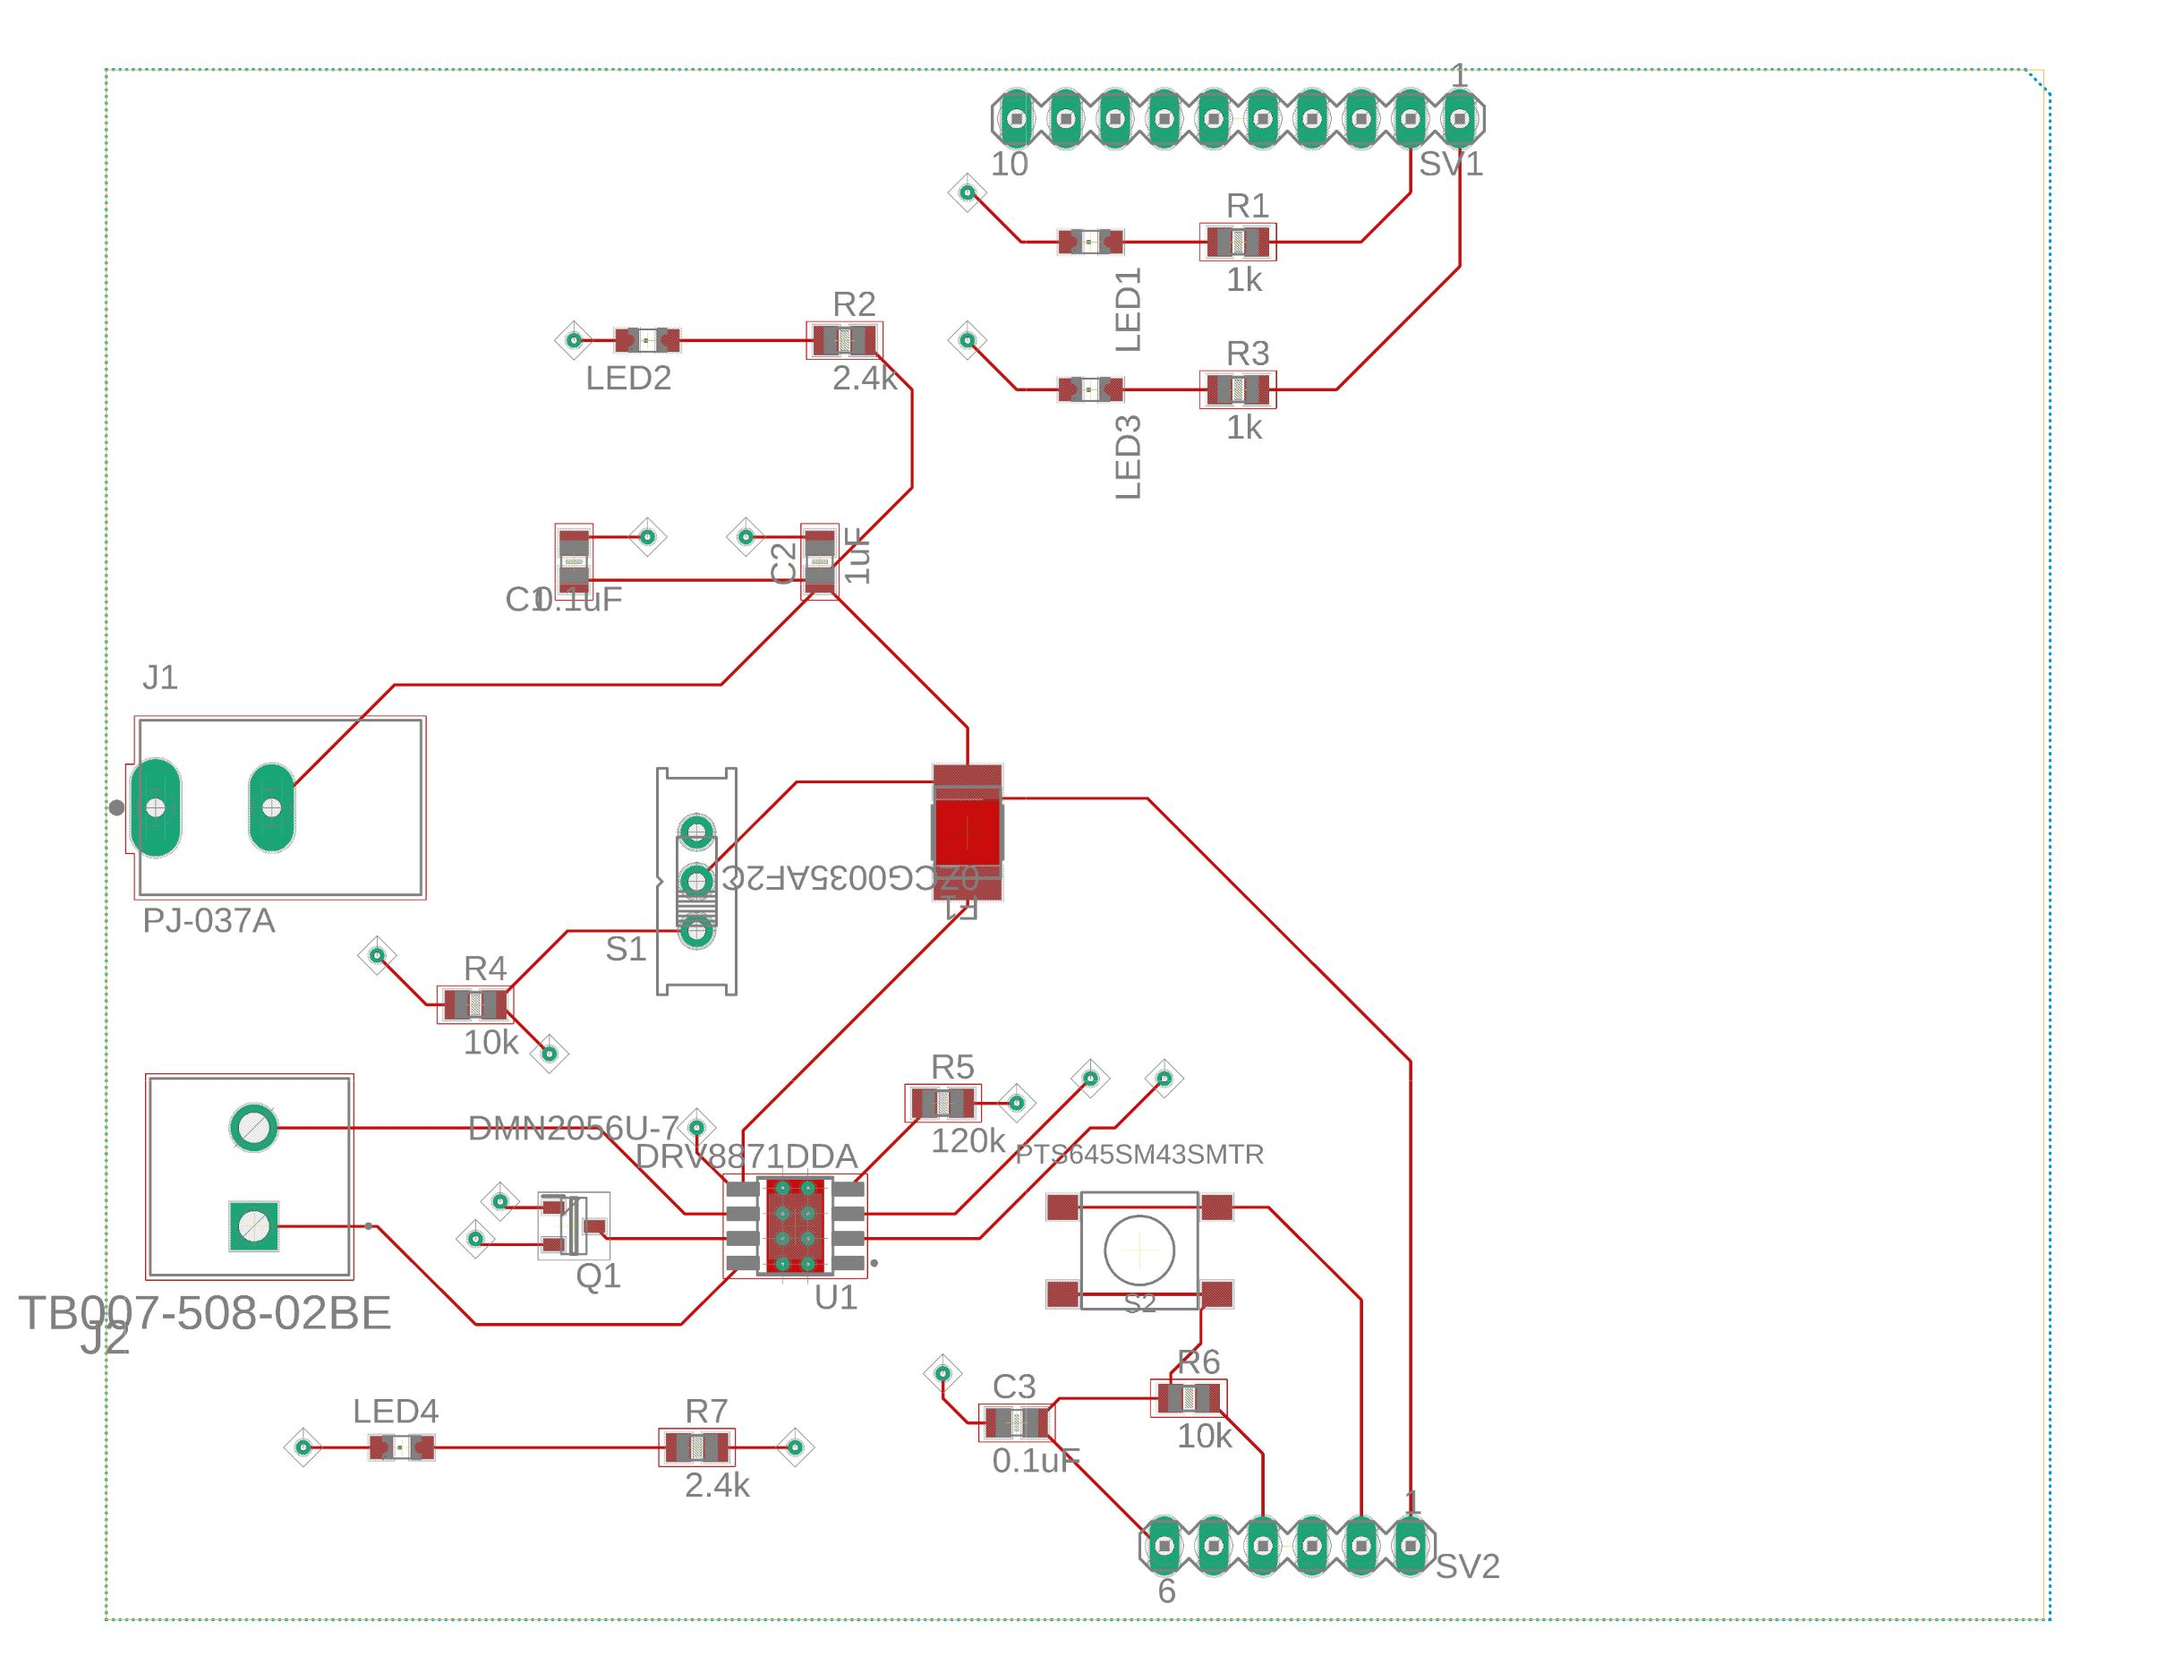
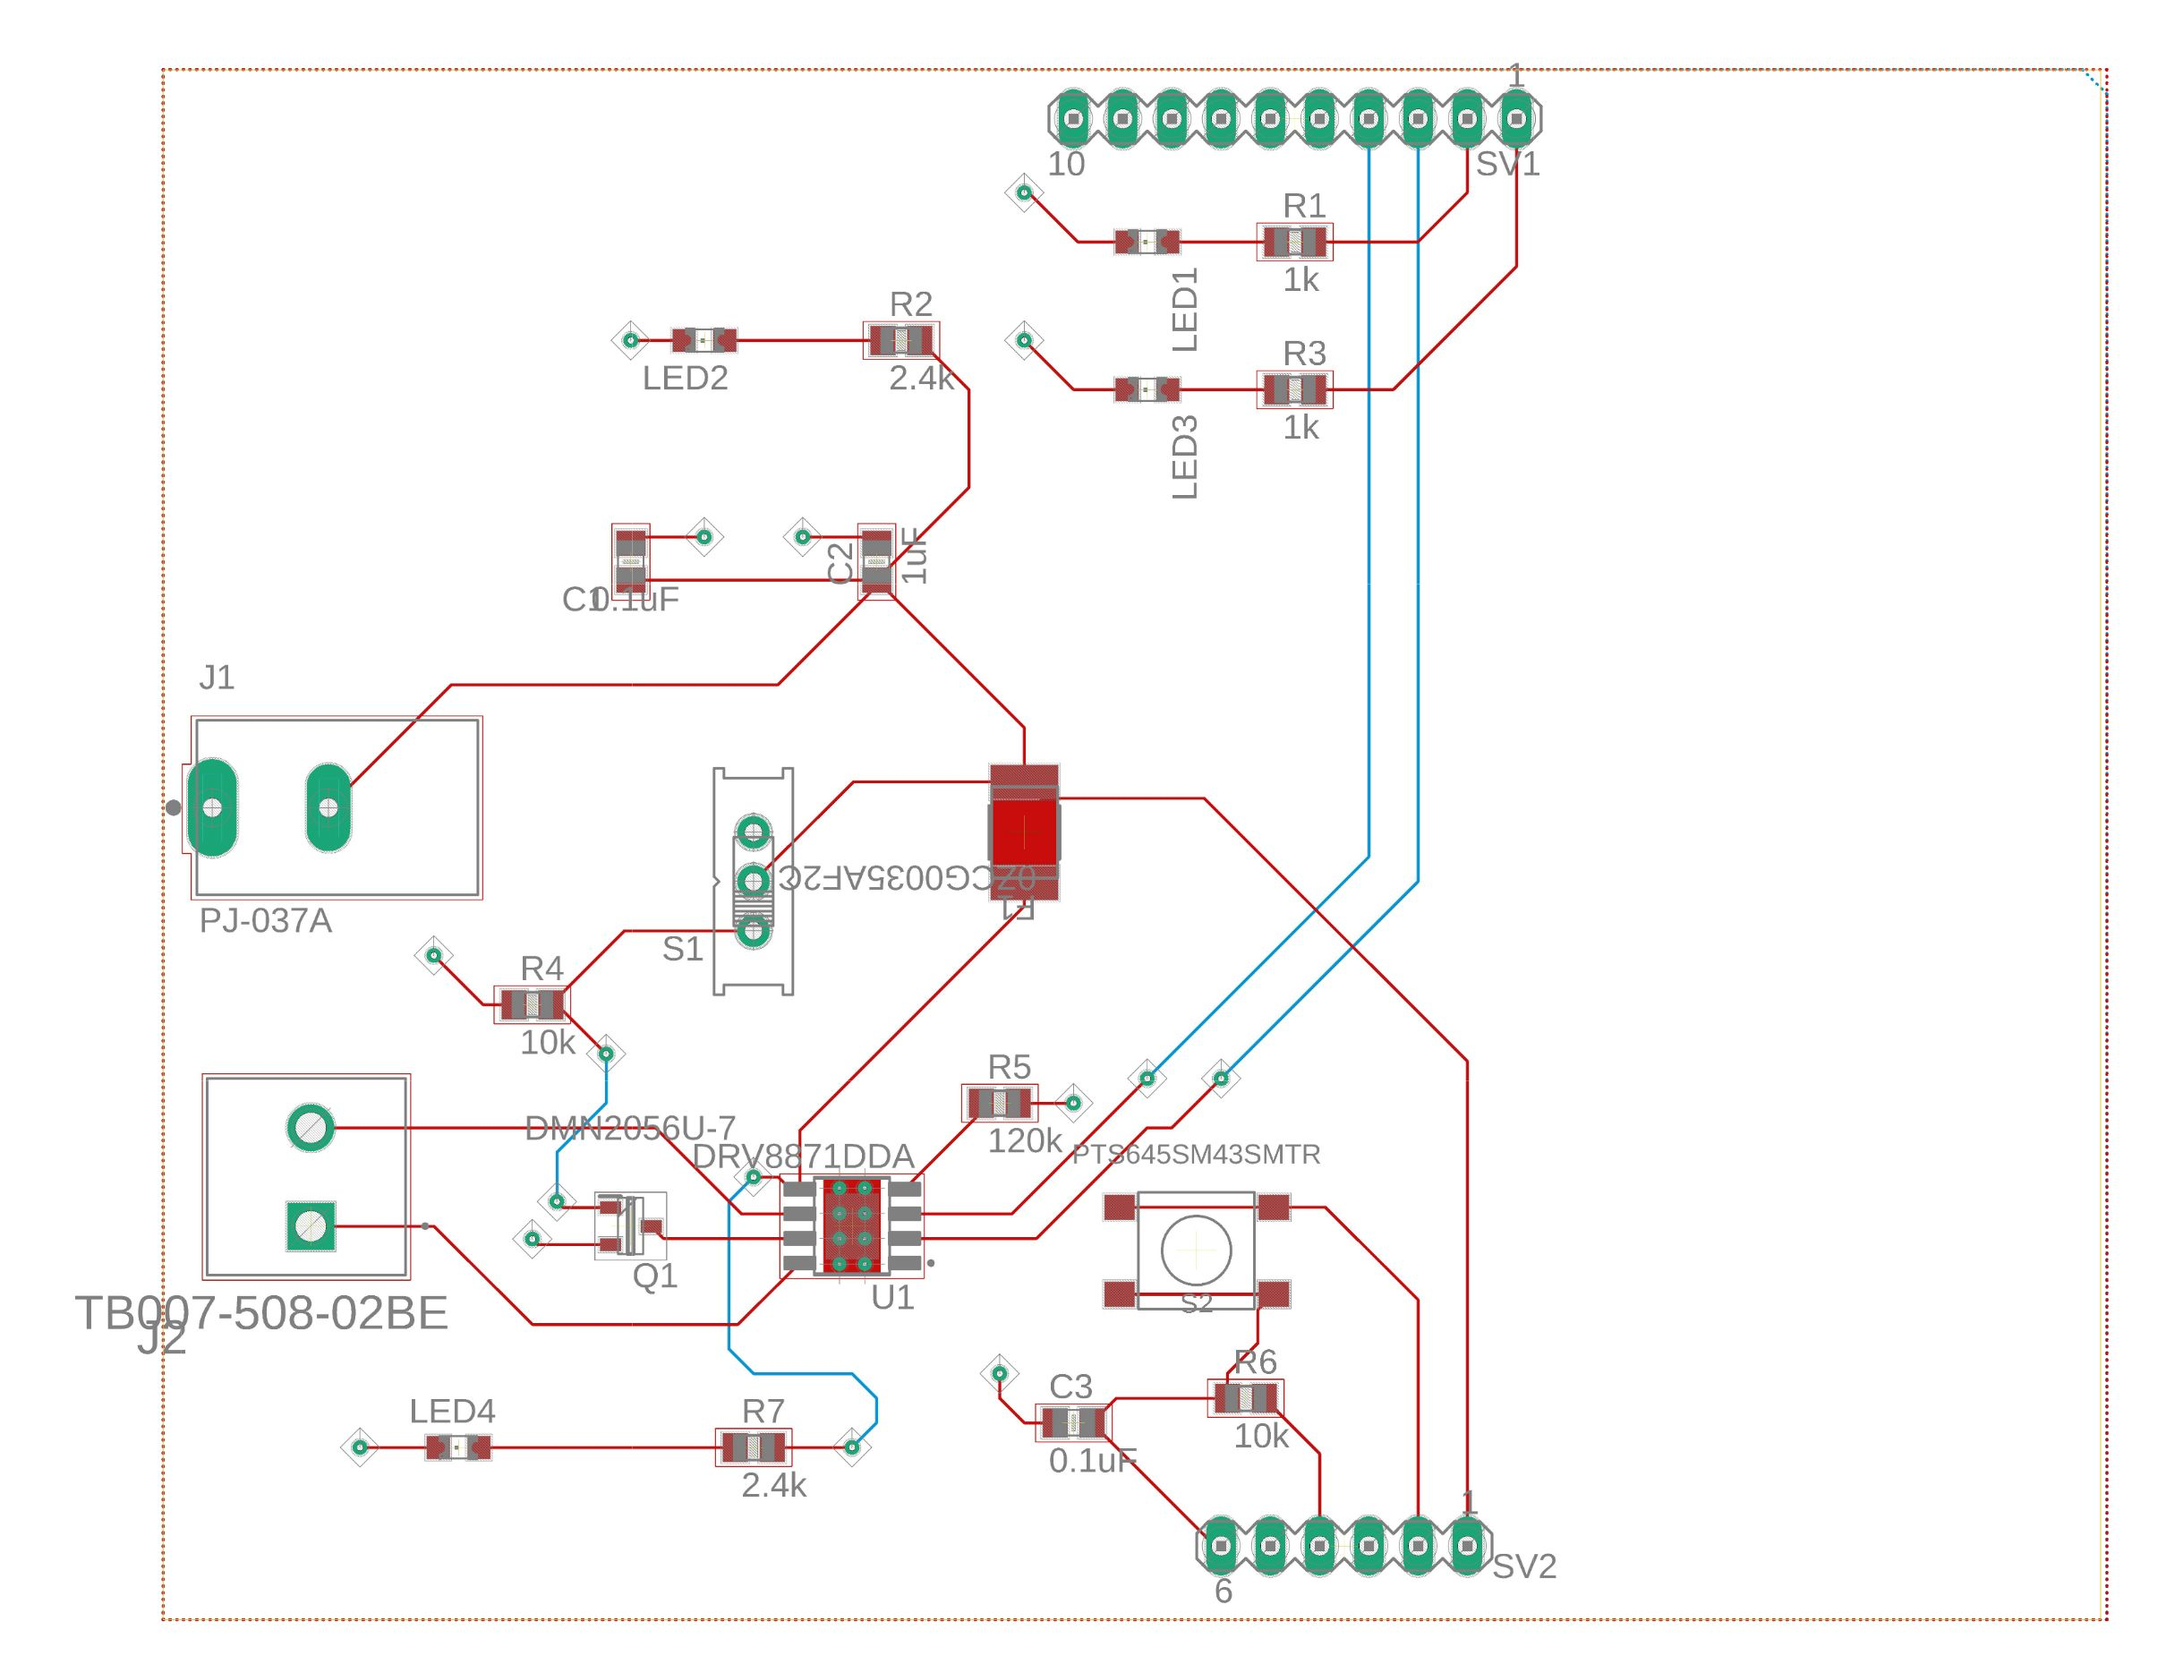
updated PCB

diff --git a/Projects.html b/Projects.html
@@ -48,7 +48,7 @@
                 <p class="subtext2">
                     Central to designing a PCB is the CAD software used to select parts and create a layout. Upon the recommendation of other ECE majors and my peer leader from ECE 1100, I decided to introduce myself to Eagle PCB using online tutorials, with the goal of designing a PCB schematic and board.
                     <br><br>
-                    I started by downloading the Eagle software and doing some preliminary research into its use, including watching tutorial videos, I decided to make use of the soldering training board designed by Robojackets, which I would later physically solder at the Hive, to practice designing something in Eagle without a 1:1 video tutorial. 
+                    I started by downloading the Eagle software and doing some preliminary research into its use, including watching tutorial videos, I decided to make use of the soldering training board designed by Robojackets, which I would later physically solder at the Hive, to practice designing something in Eagle without a 1:1 video tutorial. The board's main purpose was to drive a DC motor and turn on some LEDs (described in further detail in the hands-on stage below).
                     <br><br>
                     The first step was to create a schematic (.sch) file and select all of the parts. While several of the parts, particularly the simple resistors, capacitors, and LEDs, were available within the pre-downloaded Eagle libraries, many of the more unique parts for the project were not available. I used the minimal information provided on the training PDF to Google each missing part and find the correct one.
                     <br><br>
@@ -63,7 +63,7 @@
                 </p>
                 <p class="subtext2">
                     <br>
-                    Designing the schematic presented the challenge of interpreting the images provided for the soldering training, which were not exact schematics. After placing down all of the parts, I completed a first run through of adding all of the nets, also including nets on leads that were grounded using a trace leading to a through-hole. 
+                    Designing the schematic presented the challenge of interpreting the images provided for the soldering training, which were not exact schematics. After placing down all of the parts, I completed a first run through of adding all of the nets, also including nets on leads that were grounded using a trace leading to a through-hole.
                 </p>
                 <div id="contentIMGdiv" style="height:45vw;">
                     <img id="contentImg" src="images/firstFixedSch.jpg">
@@ -73,21 +73,21 @@
                 </p>
                 <p class="subtext2">
                     <br>
-                    The next step was to start the board file. I initially faced some challenges with asynchronous schematic editing, resulting in a severance of the connection between the two. After making sure the board and schematic matched, I ended up following through with placing all of the components in their correct spots, drawing in the traces with 45-degree angles and avoiding same-side overlap, adding in through holes (for grounded components, using vias), and completing the copper pour on the bottom layer.
+                    The next step was to start the board file. I initially faced some challenges with asynchronous schematic editing, resulting in a severance of the connection between the two. After making sure the board and schematic matched, I ended up following through with placing all of the components in their correct spots, drawing in the traces with 45-degree angles and avoiding same-side overlap, adding in through holes and bottom-layer connections, and completing copper pours on both layers.
                 </p>
                 <div id="contentIMGdiv" style="height:45vw;">
                     <img id="contentImg" src="images/firstRunBoard.jpg">
                 </div>
                 <p class="subtext2 caption">
-                    The first draft of the board, showing the top layer (layer 1 in the editor). The copper pour on the bottom layer is not pictured.
+                    The first draft of the board, showing the top (red) layer and bottom (blue) layer traces. The copper pours are not pictured.
                 </p>
                 <p class="subtext2">
                     <br>
-                    The IC (part U1) still needed some work at this stage. Under the center of the component was a thermal pad connected to an array of 6 vias/through-holes just below the IC, which I could only add in the board file, not the schematic.
+                    The IC (U1) still needed some work at this stage. Under the center of the component was a thermal pad connected to an array of 6 vias/through-holes just below the IC, which I could only add in the board file, not the schematic.
                 </p>
             <h2 class="subheading2">>> Hands-On Stage | PCB Soldering Training</h2>
                 <p class="subtext2">
-                    The hands-on stage of my project involved getting to actually participate in the Robojackets Soldering Training session at Georgia Tech's Interdisciplinary Design Commons, an ECE makespace run by The Hive, a student organization. The board actually does have a purpose--when used with an Arduino Uno, it can power a DC motor, if created properly.
+                    The hands-on stage of my project involved getting to actually participate in the Robojackets Soldering Training session at Georgia Tech's Interdisciplinary Design Commons, an ECE makespace run by The Hive, a student organization. When used as a Shield with an Arduino Uno running the correct program, the board is intended to power a DC motor, if soldered properly and debugged.
                     <br><br>
                     The soldering skills required were more complex than the simple through-hole soldering experience I already had. I had to use surface-mount components, many of which were too small to handle without tweezers, which took some getting used to.
                 </p>
